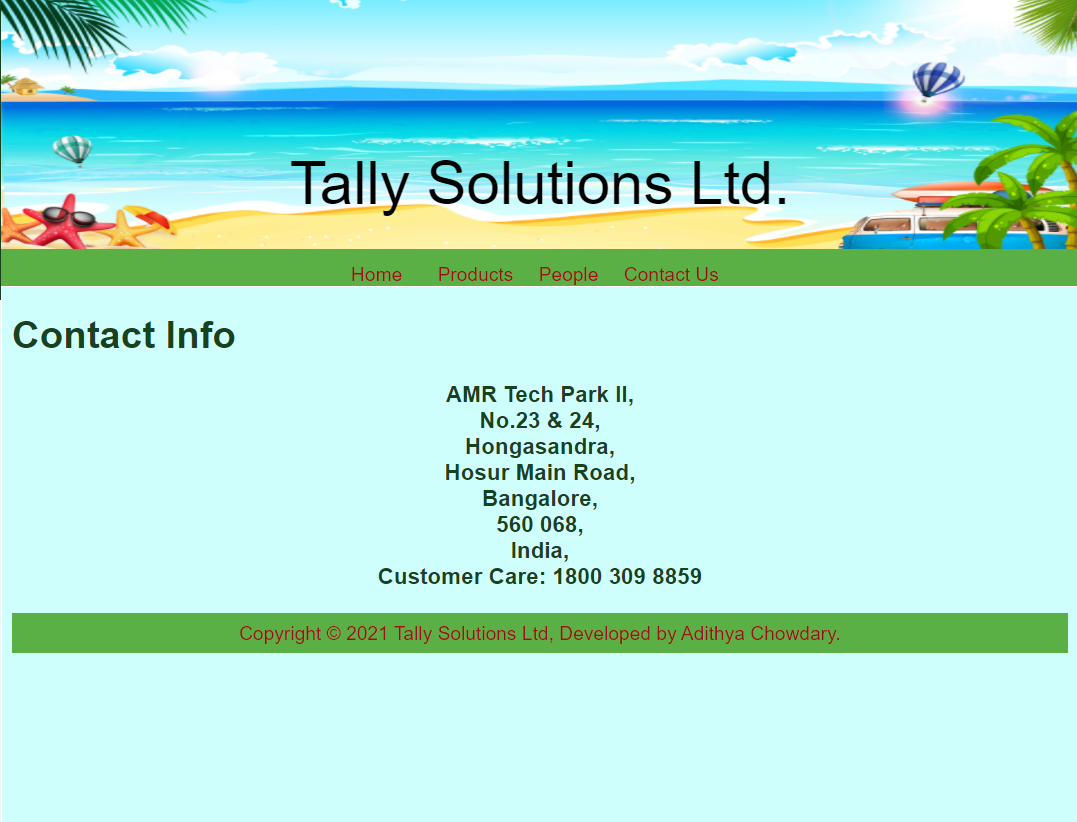
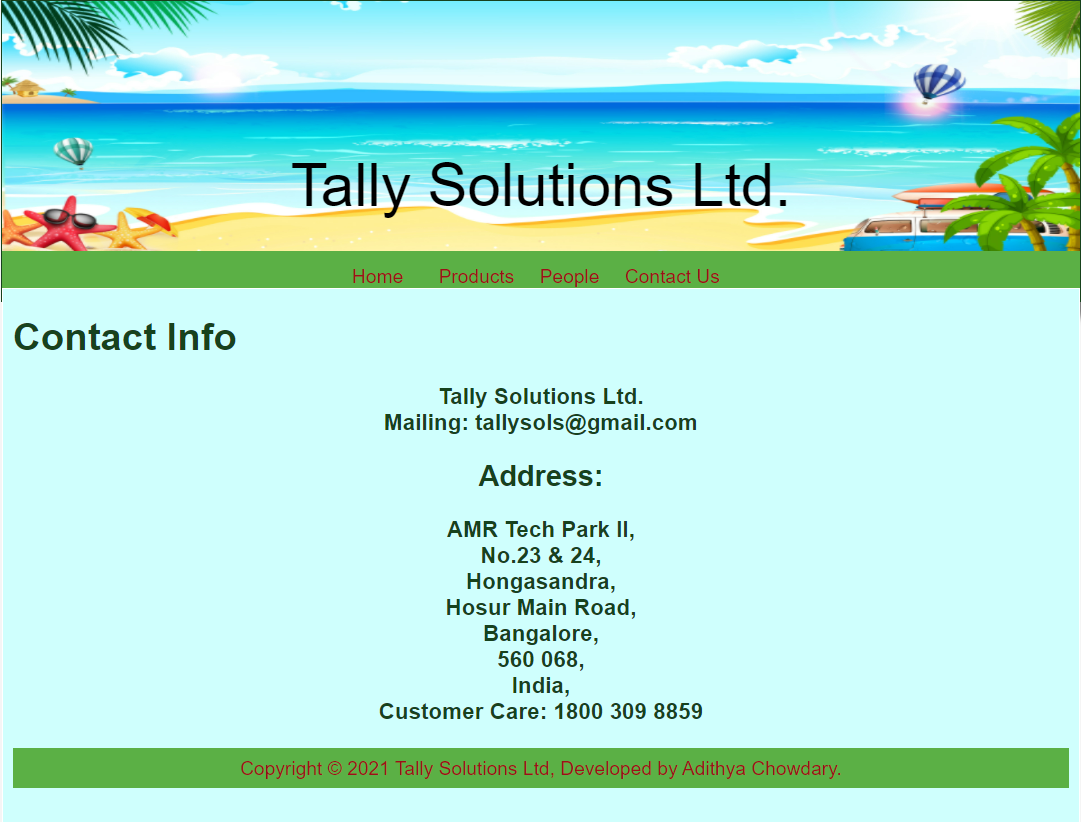
up

diff --git a/companywebsite/static/Contact Us.html b/companywebsite/static/Contact Us.html
@@ -19,6 +19,13 @@
         <div class="productcontent">    
           <h1>Contact Info</h1>
           <h3>
+            Tally Solutions Ltd.
+            <br/>
+            Mailing: tallysols@gmail.com
+            <br/>
+             <h2>Address:</h2>
+            </h3>
+            <h3>
             AMR Tech Park II,
             <br/>
             No.23 & 24,
